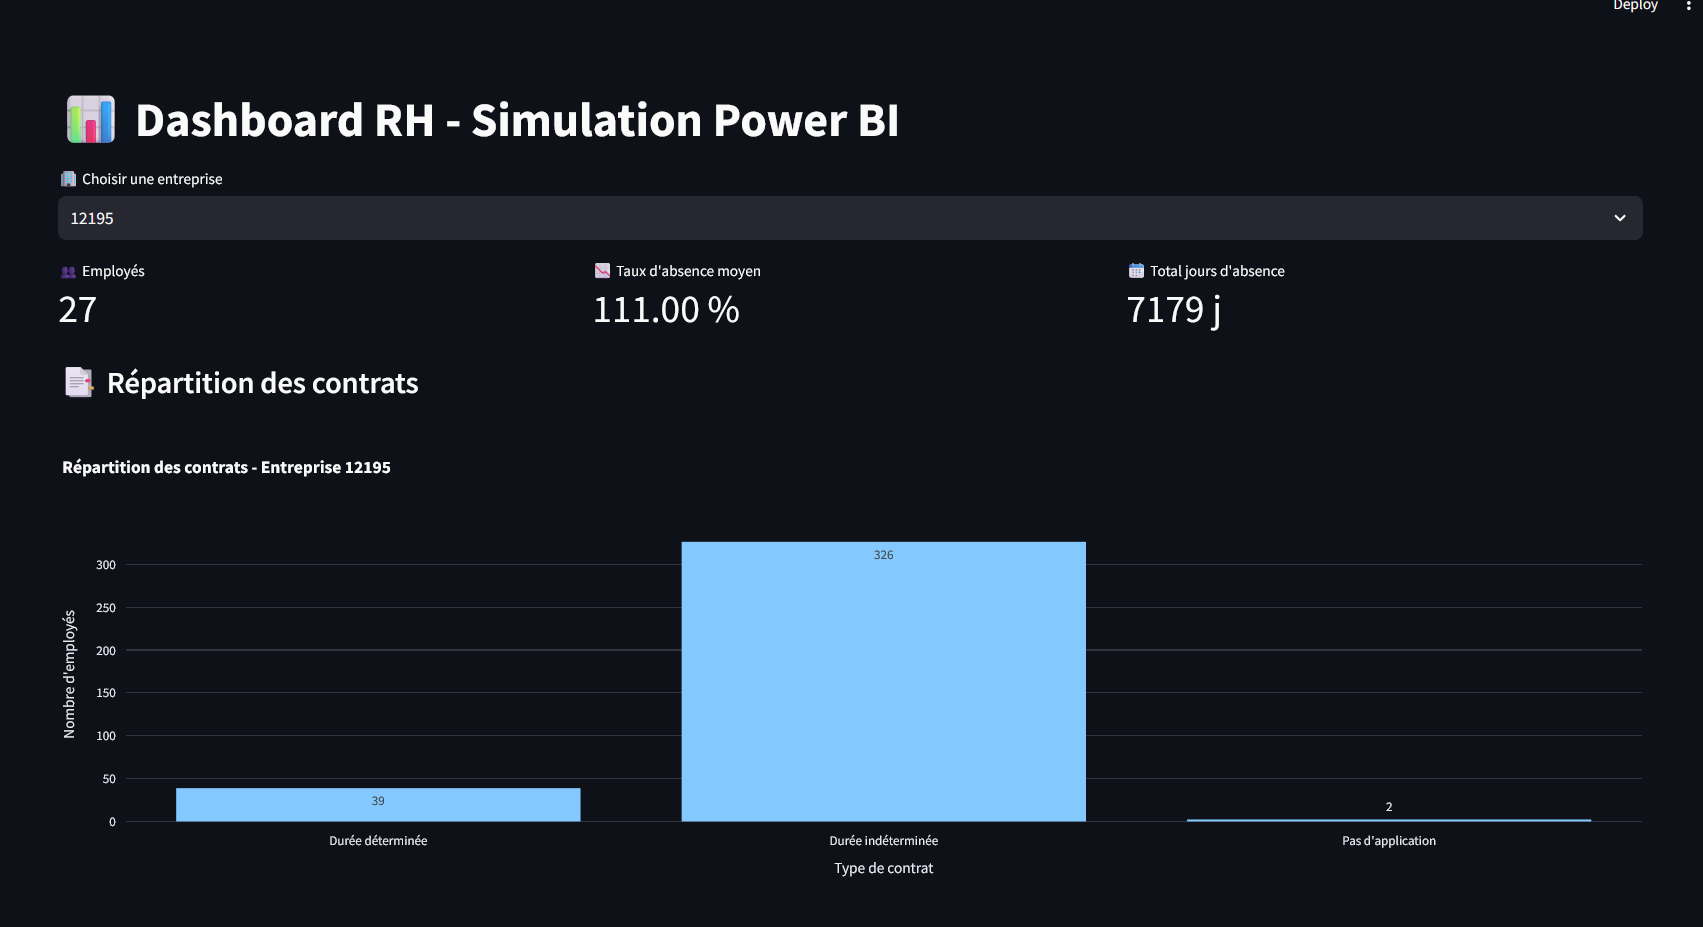
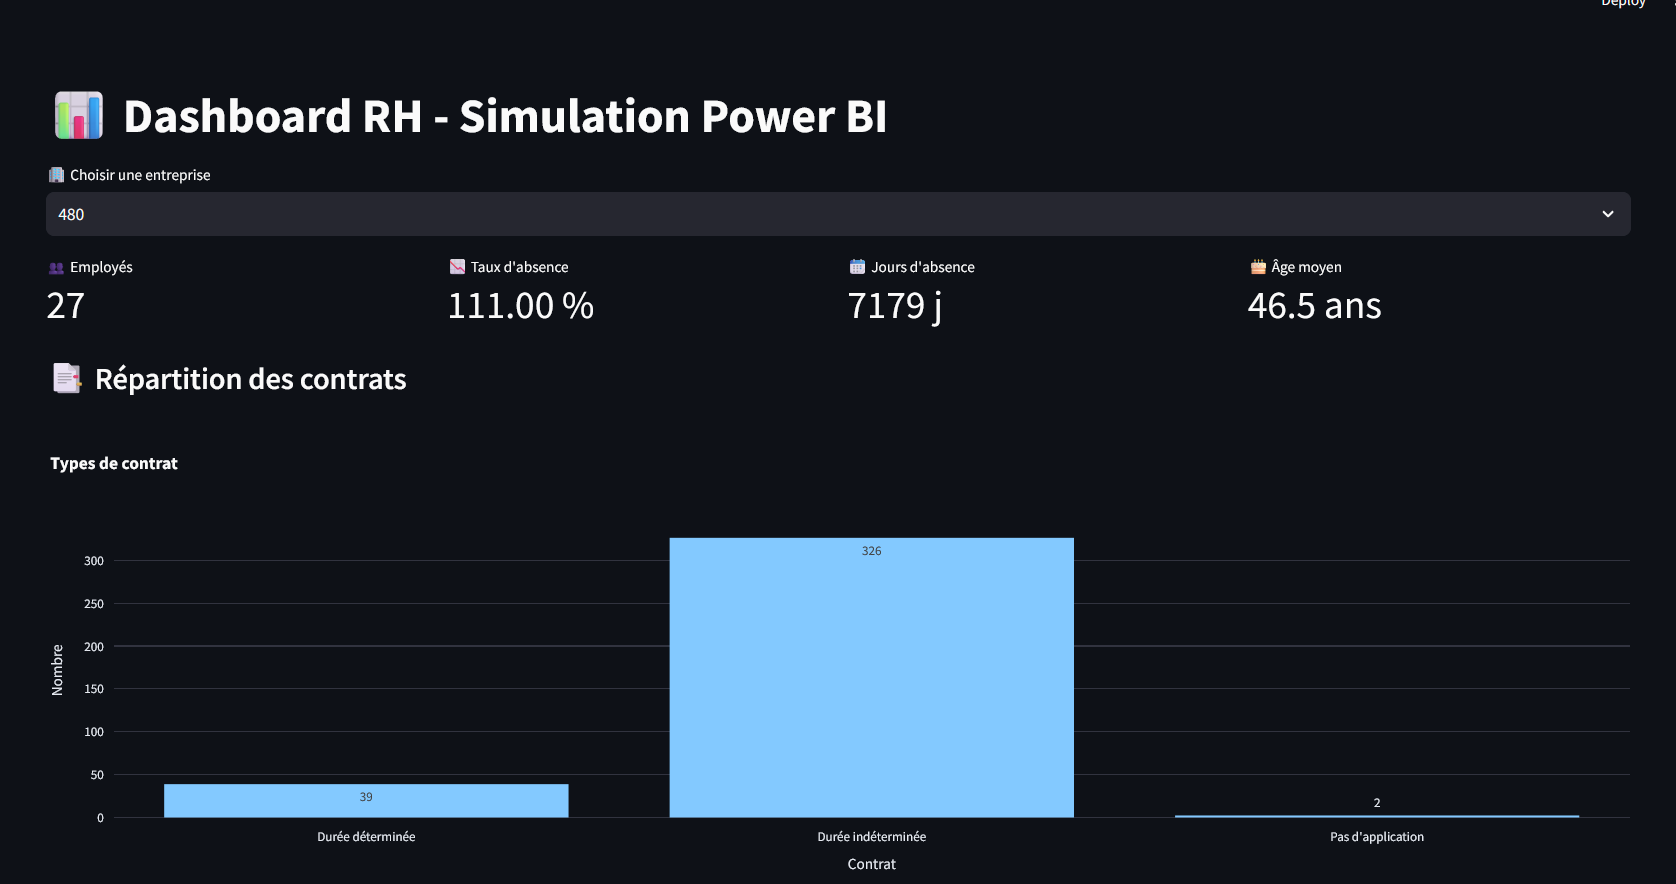
modified:   app/__pycache__/model.cpython-312.pyc new file:   app/fabric_sim.db modified:   app/model.py modified:   app/streamlit_dashboard.py modified:   pictures/image_1.png modified:   pictures/image_2.png new file:   pictures/image_3.png

diff --git a/app/streamlit_dashboard.py b/app/streamlit_dashboard.py
@@ -13,20 +13,20 @@ from model import (
     average_age_by_firm
 )
 
-# Connexion DB
+# Database connection
 conn = sqlite3.connect(r"C:\Users\pieta\OneDrive\Bureau\Beyond Data Group\Beyond-Data-Group\notebooks\fabric_sim.db")
 df = load_data(conn)
 df_abs_type = load_absence_type(conn)
 
 # UI
-st.set_page_config(page_title="Dashboard RH", layout="wide")
-st.title("📊 Dashboard RH - Simulation Power BI")
+st.set_page_config(page_title="HR Dashboard", layout="wide")
+st.title("📊 HR Dashboard - Power BI Simulation")
 
-# Sélecteur entreprise
+# Company selector
 firm_ids = df['firm_id'].dropna().unique()
-selected_firm = st.selectbox("🏢 Choisir une entreprise", sorted(firm_ids))
+selected_firm = st.selectbox("🏢 Choose a company", sorted(firm_ids))
 
-# Filtrage des données
+# Data filtering
 df_firm = df[df['firm_id'] == selected_firm]
 
 # KPIs
@@ -34,50 +34,50 @@ col1, col2, col3, col4 = st.columns(4)
 
 with col1:
     total_emp = total_employees_by_firm(df_firm)['employee_count'].values[0]
-    st.metric("👥 Employés", total_emp)
+    st.metric("👥 Employees", total_emp)
 
 with col2:
     avg_abs = average_absence_rate_by_firm(df_firm)['absence_rate'].values[0]
-    st.metric("📉 Taux d'absence", f"{avg_abs * 100:.2f} %")
+    st.metric("📉 Absence rate", f"{avg_abs * 100:.2f} %")
 
 with col3:
     total_abs = df_firm['total_absence_days'].sum()
-    st.metric("📆 Jours d'absence", f"{int(total_abs)} j")
+    st.metric("📆 Absence days", f"{int(total_abs)} d")
 
 with col4:
     avg_age = average_age_by_firm(df_firm)['average_age'].values[0]
-    st.metric("🎂 Âge moyen", f"{avg_age:.1f} ans")
+    st.metric("🎂 Average age", f"{avg_age:.1f} years")
 
-# Graphique : répartition des contrats
-st.subheader("📑 Répartition des contrats")
+# Chart: contract distribution
+st.subheader("📑 Contract distribution")
 contract_dist = contract_type_distribution_by_firm(df_firm)
 
 fig_contract = px.bar(
     contract_dist,
     x="contract_type",
     y="count",
-    title="Types de contrat",
-    labels={"count": "Nombre", "contract_type": "Contrat"},
+    title="Contract types",
+    labels={"count": "Count", "contract_type": "Contract"},
     text_auto=True
 )
 st.plotly_chart(fig_contract, use_container_width=True)
 
-# Graphique : répartition par genre
-st.subheader("🧑🤝🧑 Répartition hommes / femmes")
+# Chart: gender distribution
+st.subheader("🧑🤝🧑 Gender distribution")
 gender_dist = gender_distribution_by_firm(df_firm)
 
 fig_gender = px.bar(
     gender_dist,
     x="gender",
     y="employee_count",
-    title="Répartition par genre",
-    labels={"employee_count": "Nombre", "gender": "Genre"},
+    title="Gender distribution",
+    labels={"employee_count": "Count", "gender": "Gender"},
     text_auto=True
 )
 st.plotly_chart(fig_gender, use_container_width=True)
 
-# Graphique : types d'absences
-st.subheader("💥 Types d'absence")
+# Chart: absence types
+st.subheader("💥 Absence types")
 df_enriched_abs = enrich_absence_with_type(df_firm, df_abs_type)
 absence_summary = absences_by_type(df_enriched_abs)
 
@@ -86,9 +86,9 @@ if not absence_summary.empty:
         absence_summary,
         values="days",
         names="type_absence_fr",
-        title="Répartition des absences par type",
+        title="Absence distribution by type",
         hole=0.3
     )
     st.plotly_chart(fig_abs, use_container_width=True)
 else:
-    st.info("Aucune absence enregistrée pour cette entreprise.")
+    st.info("No absences recorded for this company.")

diff --git a/README.md b/README.md
@@ -13,7 +13,6 @@ This project replicates the logic of a Microsoft Fabric use case using only Pyth
 
 ## 📁 Project Structure
 ```bash
-```bash
 fabric_sim_python/
 ├── app/                     # Streamlit application files and semantic model
 ├── csv/                     # Raw CSV files (data input simulation)
@@ -26,12 +25,15 @@ fabric_sim_python/
 
 ## 🧠 Semantic Model (`model.py`)
 This file acts as the business layer. It:
+
 - Loads and joins tables: `absence`, `contract_basis`, and `absence_type`
 - Cleans and transforms data (e.g., handling NaNs, casting types)
 - Calculates measures:
   - `total_absence_days`
   - `absence_rate`
   - `employee_count`
+  - `gender_distribution_by_firm`
+  - `average_age_by_firm`
 - Reshapes the absence table (wide to long format) and enriches it using `absence_type`
 
 Key functions:
@@ -40,6 +42,8 @@ Key functions:
 - `enrich_absence_with_type()`: Pivot and join absence type descriptions
 - `absences_by_type()`: Aggregate total days by absence type
 - `total_employees_by_firm()` / `average_absence_rate_by_firm()` / `contract_type_distribution_by_firm()`
+- `gender_distribution_by_firm()`: Count of men and women per company
+- `average_age_by_firm()`: Compute mean age per company using birth date
 
 ---
 
@@ -52,9 +56,11 @@ Features:
   - Total employees
   - Average absence rate
   - Total days of absence
+  - Average age
 - Charts:
   - Contract type distribution (bar chart)
   - Absence type distribution (pie chart)
+  - Gender distribution per firm (bar chart)
 
 Future ideas:
 - Filters by date (month, quarter, year)
@@ -91,9 +97,11 @@ Here are some screenshots of the dashboard:
 
 ### Detailed Insights
 ![Detailed Insights](pictures/image_2.png)
+![Detailed Insights](pictures/image_3.png)
 
 ---
 
 ## 🧑💻 Author
 Adrien Piette  
 Simulated Microsoft Fabric, one block at a time 🚀
+
